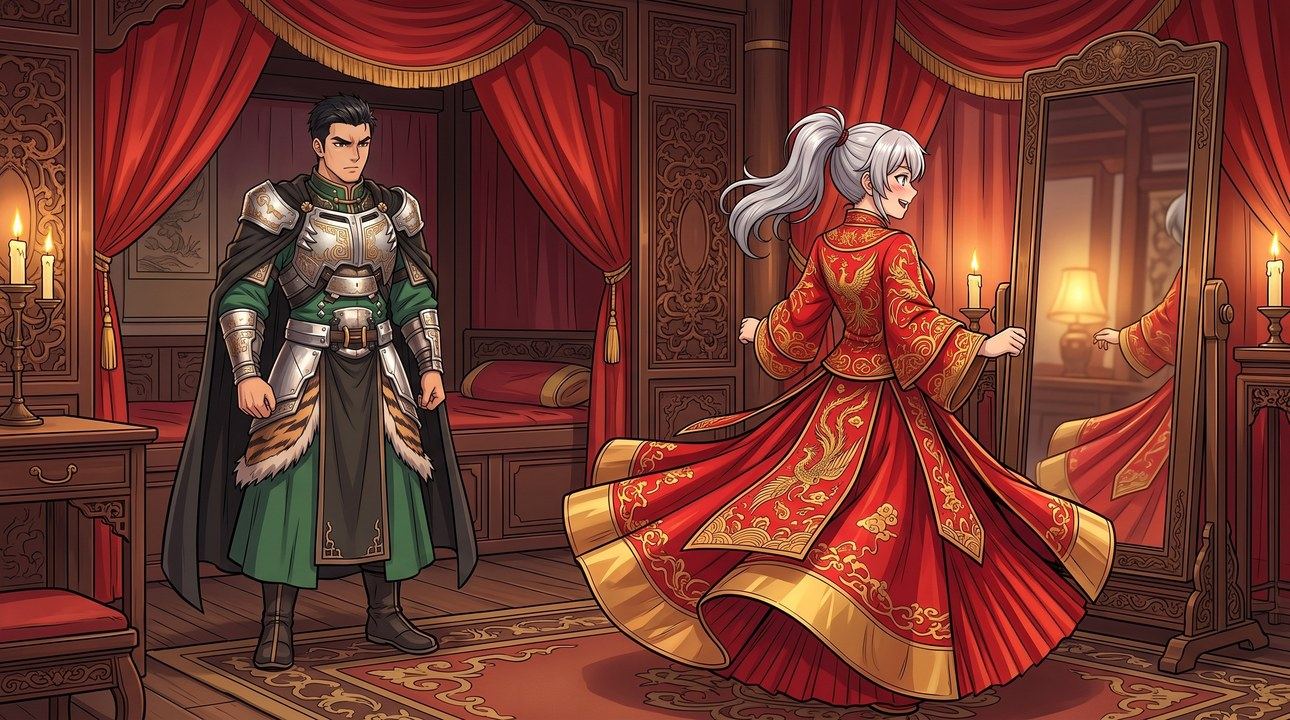
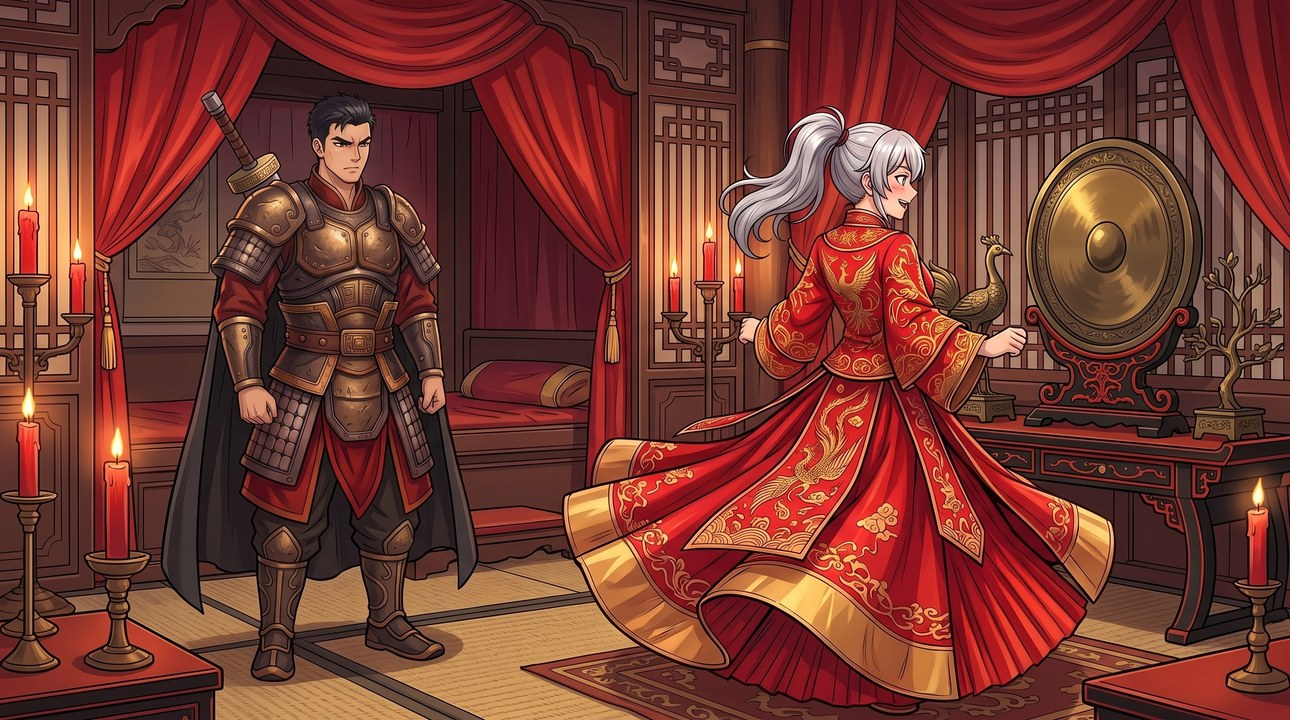
Art: c5_dress redrawn with the new lord armor and a Han-era room; flush art docs
Claude-Session: https://claude.ai/code/session_018QaSx8CT1BCqyCRYWf7FPT

diff --git a/pics/ART-PROMPTS.md b/pics/ART-PROMPTS.md
@@ -13,23 +13,6 @@
 
 - `title` — 标题画面：主角换了新形象（古铜鎏金甲、朱红内衬、纯黑披风，肩扛大刀），参考 lord_south_armor
 - `jiujia` — 孙坚旧甲图标：改成古铜鎏金甲
-- `c2_handover` — 主角换了新铠甲（古铜鎏金甲、朱红内衬、纯黑披风，无白毛领、无虎皮）
-- `c2_keep` — 主角换了新铠甲（古铜鎏金甲、朱红内衬、纯黑披风，无白毛领、无虎皮）
-- `c2_triple` — 主角换了新铠甲（古铜鎏金甲、朱红内衬、纯黑披风，无白毛领、无虎皮）
-- `c2_zumao_saved` — 主角换了新铠甲（古铜鎏金甲、朱红内衬、纯黑披风，无白毛领、无虎皮）
-- `c3_raid` — 主角换了新铠甲（古铜鎏金甲、朱红内衬、纯黑披风，无白毛领、无虎皮）
-- `c3_entrust` — 主角换了新铠甲（古铜鎏金甲、朱红内衬、纯黑披风，无白毛领、无虎皮）
-- `c3_warn` — 主角换了新铠甲（古铜鎏金甲、朱红内衬、纯黑披风，无白毛领、无虎皮）
-- `c3_feng` — 主角换了新铠甲（古铜鎏金甲、朱红内衬、纯黑披风，无白毛领、无虎皮）
-- `c3_end` — 主角换了新铠甲（古铜鎏金甲、朱红内衬、纯黑披风，无白毛领、无虎皮）
-- `c4_betroth` — 主角换了新铠甲（古铜鎏金甲、朱红内衬、纯黑披风，无白毛领、无虎皮）
-- `c4_mangshan` — 主角换了新铠甲（古铜鎏金甲、朱红内衬、纯黑披风，无白毛领、无虎皮）
-- `c4_peace` — 主角换了新铠甲（古铜鎏金甲、朱红内衬、纯黑披风，无白毛领、无虎皮）
-- `c4_dongjia` — 主角换了新铠甲（古铜鎏金甲、朱红内衬、纯黑披风，无白毛领、无虎皮）
-- `c4_siege` — 主角换了新铠甲（古铜鎏金甲、朱红内衬、纯黑披风，无白毛领、无虎皮）
-- `c5_enter` — 主角换了新铠甲（古铜鎏金甲、朱红内衬、纯黑披风，无白毛领、无虎皮）
-- `c5_feast` — 主角换了新铠甲（古铜鎏金甲、朱红内衬、纯黑披风，无白毛领、无虎皮）
-- `c5_dress` — 主角换了新铠甲（古铜鎏金甲、朱红内衬、纯黑披风，无白毛领、无虎皮）
 - `c5_diaochan` — 主角换了新铠甲（古铜鎏金甲、朱红内衬、纯黑披风，无白毛领、无虎皮）
 - `c5_yuexia` — 主角换了新铠甲（古铜鎏金甲、朱红内衬、纯黑披风，无白毛领、无虎皮）
 - `c5_chuxi` — 主角换了新铠甲（古铜鎏金甲、朱红内衬、纯黑披风，无白毛领、无虎皮）
@@ -65,69 +48,52 @@
 - `c10_wanglang` — 主角换了新铠甲（古铜鎏金甲、朱红内衬、纯黑披风，无白毛领、无虎皮）
 - `e_jd_yanchuan` — 主角换了新铠甲（古铜鎏金甲、朱红内衬、纯黑披风，无白毛领、无虎皮）
 
-共 52 张，按优先级分档（全部由游戏数据算出，游戏里没用到的不列）：
+共 35 张，按优先级分档（全部由游戏数据算出，游戏里没用到的不列）：
 
 
-**第 3 档 · 主线剧情 CG（50）**
+**第 3 档 · 主线剧情 CG（33）**
 
-1. `c2_zumao_saved` — 第二章 · 讨伐董卓·救祖茂（剧情 CG）
-2. `c2_triple` — 第二章 · 讨伐董卓·威震诸侯（剧情 CG）
-3. `c2_handover` — 第二章 · 讨伐董卓·交人（剧情 CG）
-4. `c2_keep` — 第二章 · 讨伐董卓·藏人（剧情 CG）
-5. `c3_entrust` — 第三章 · 传国玉玺·托玺（剧情 CG）
-6. `c3_warn` — 第三章 · 传国玉玺·劝阻（剧情 CG）
-7. `c3_feng` — 第三章 · 传国玉玺·冯夫人（剧情 CG）
-8. `c3_raid` — 第三章 · 传国玉玺·夜袭（剧情 CG）
-9. `c4_peace` — 第三章 · 传国玉玺·求和（剧情 CG）
-10. `c4_betroth` — 第三章 · 传国玉玺·定亲（剧情 CG）
-11. `c4_mangshan` — 第三章 · 传国玉玺·邙山跑马（剧情 CG）
-12. `c3_end` — 第三章 · 传国玉玺·玉碎（剧情 CG）
-13. `c5_enter` — 第三章 · 传国玉玺·入长安（剧情 CG）
-14. `c5_feast` — 第三章 · 传国玉玺·接风宴（剧情 CG）
-15. `c5_diaochan` — 第三章 · 传国玉玺·貂蝉（剧情 CG）
-16. `c5_yuexia` — 第三章 · 传国玉玺·月下（剧情 CG）
-17. `c5_chuxi` — 第三章 · 传国玉玺·除夕（剧情 CG）
-18. `c5_dress` — 第三章 · 传国玉玺·大婚前夜（剧情 CG）
-19. `c5_wedding` — 第三章 · 传国玉玺·大婚（剧情 CG）
-20. `c5_rescue` — 第三章 · 传国玉玺·格杀勿论（剧情 CG）
-21. `c5_death` — 第三章 · 传国玉玺·董卓之死（剧情 CG）
-22. `c6_yizu` — 第四章 · 挟天子·夷族（剧情 CG）
-23. `c6_warn` — 第四章 · 挟天子·报信（剧情 CG）
-24. `c4_siege` — 第四章 · 挟天子·围府（剧情 CG）
-25. `c6_escape` — 第四章 · 挟天子·北掖门（剧情 CG）
-26. `c4_dongjia` — 第四章 · 挟天子·董家（剧情 CG）
-27. `c6_jiaxu` — 第四章 · 挟天子·绑走贾诩（剧情 CG）
-28. `c6_huihe` — 第四章 · 挟天子·洛阳（剧情 CG）
-29. `c6_jiaxu_join` — 第四章 · 挟天子·洛阳休整（剧情 CG）
-30. `c6_seal` — 第四章 · 挟天子·玉玺（剧情 CG）
-31. `c7_huangzhong` — 第四章 · 挟天子·黄忠（剧情 CG）
-32. `c7_stars` — 第四章 · 挟天子·星夜（剧情 CG）
-33. `c7_feng` — 第四章 · 挟天子·冯夫人（剧情 CG）
-34. `c7_flee` — 第四章 · 挟天子·袁术东逃（剧情 CG）
-35. `c8_jiayan` — 第五章 · 荆襄风云·宛城小聚（剧情 CG）
-36. `c8_shuige` — 第五章 · 荆襄风云·万山水阁（剧情 CG）
-37. `c8_dress` — 第五章 · 荆襄风云·盛装（剧情 CG）
-38. `c8_xiangxiao` — 第五章 · 荆襄风云·香消（剧情 CG）
-39. `c8_grapes` — 第五章 · 荆襄风云·万山水阁（剧情 CG）
-40. `c8_henhai` — 第五章 · 荆襄风云·恨海（剧情 CG）
-41. `c8_zupu` — 第五章 · 荆襄风云·明正典刑（剧情 CG）
-42. `c8_louchuan` — 第五章 · 荆襄风云·月下楼船（剧情 CG）
-43. `c9_granary` — 第六章 · 淮南折帝旗·舒县（剧情 CG）
-44. `c9_luxun` — 第六章 · 淮南折帝旗·陆家旧宅（剧情 CG）
-45. `c9_lusu` — 第六章 · 淮南折帝旗·指囷相赠（剧情 CG）
-46. `c9_liuye` — 第六章 · 淮南折帝旗·庐江士族（剧情 CG）
-47. `c9_bridge` — 第六章 · 淮南折帝旗·浮桥（剧情 CG）
-48. `c10_yeyan` — 第七章 · 江东小霸王·吴郡夜宴（剧情 CG）
-49. `c10_wanglang` — 第七章 · 江东小霸王·辩经（剧情 CG）
-50. `c10_fuchun` — 第七章 · 江东小霸王·富春还乡（剧情 CG）
+1. `c5_diaochan` — 第三章 · 传国玉玺·貂蝉（剧情 CG）
+2. `c5_yuexia` — 第三章 · 传国玉玺·月下（剧情 CG）
+3. `c5_chuxi` — 第三章 · 传国玉玺·除夕（剧情 CG）
+4. `c5_wedding` — 第三章 · 传国玉玺·大婚（剧情 CG）
+5. `c5_rescue` — 第三章 · 传国玉玺·格杀勿论（剧情 CG）
+6. `c5_death` — 第三章 · 传国玉玺·董卓之死（剧情 CG）
+7. `c6_yizu` — 第四章 · 挟天子·夷族（剧情 CG）
+8. `c6_warn` — 第四章 · 挟天子·报信（剧情 CG）
+9. `c6_escape` — 第四章 · 挟天子·北掖门（剧情 CG）
+10. `c6_jiaxu` — 第四章 · 挟天子·绑走贾诩（剧情 CG）
+11. `c6_huihe` — 第四章 · 挟天子·洛阳（剧情 CG）
+12. `c6_jiaxu_join` — 第四章 · 挟天子·洛阳休整（剧情 CG）
+13. `c6_seal` — 第四章 · 挟天子·玉玺（剧情 CG）
+14. `c7_huangzhong` — 第四章 · 挟天子·黄忠（剧情 CG）
+15. `c7_stars` — 第四章 · 挟天子·星夜（剧情 CG）
+16. `c7_feng` — 第四章 · 挟天子·冯夫人（剧情 CG）
+17. `c7_flee` — 第四章 · 挟天子·袁术东逃（剧情 CG）
+18. `c8_jiayan` — 第五章 · 荆襄风云·宛城小聚（剧情 CG）
+19. `c8_shuige` — 第五章 · 荆襄风云·万山水阁（剧情 CG）
+20. `c8_dress` — 第五章 · 荆襄风云·盛装（剧情 CG）
+21. `c8_xiangxiao` — 第五章 · 荆襄风云·香消（剧情 CG）
+22. `c8_grapes` — 第五章 · 荆襄风云·万山水阁（剧情 CG）
+23. `c8_henhai` — 第五章 · 荆襄风云·恨海（剧情 CG）
+24. `c8_zupu` — 第五章 · 荆襄风云·明正典刑（剧情 CG）
+25. `c8_louchuan` — 第五章 · 荆襄风云·月下楼船（剧情 CG）
+26. `c9_granary` — 第六章 · 淮南折帝旗·舒县（剧情 CG）
+27. `c9_luxun` — 第六章 · 淮南折帝旗·陆家旧宅（剧情 CG）
+28. `c9_lusu` — 第六章 · 淮南折帝旗·指囷相赠（剧情 CG）
+29. `c9_liuye` — 第六章 · 淮南折帝旗·庐江士族（剧情 CG）
+30. `c9_bridge` — 第六章 · 淮南折帝旗·浮桥（剧情 CG）
+31. `c10_yeyan` — 第七章 · 江东小霸王·吴郡夜宴（剧情 CG）
+32. `c10_wanglang` — 第七章 · 江东小霸王·辩经（剧情 CG）
+33. `c10_fuchun` — 第七章 · 江东小霸王·富春还乡（剧情 CG）
 
 **第 5 档 · 宝物图标（1）**
 
-51. `jiujia` — 孙坚旧甲（宝物图标）（宝物）
+34. `jiujia` — 孙坚旧甲（宝物图标）（宝物）
 
 **第 7 档 · 奇遇插图（1）**
 
-52. `e_jd_yanchuan` — 奇遇「严家盐船」（剧情 CG）
+35. `e_jd_yanchuan` — 奇遇「严家盐船」（剧情 CG）
 
 交图规则：
 
@@ -155,16 +121,6 @@
 构图：横版 16:9，1920x1080，主要人物位于画面上部三分之二以上。画面中重点人物最多四位；无名的背景人物（士兵、人群）不限。
 画风：复古日系战术动漫 RPG 卡牌插画，参考《兰斯10》画风，赛璐珞上色，墨线干净利落，色彩浓郁鲜艳，视觉小说事件 CG，表情生动，暖色电影感光线；不要文字、不要 UI。
 （主角出场时——主角：年轻男子，黑色短发（现代发型，在汉代很扎眼），穿孙坚留下的古铜鎏金旧甲（古铜色札甲、金边勾勒，胸甲与肩甲有云纹浮雕，鳞片纹甲裙与护腿，带划痕与旧锈），内衬朱红战袍，披纯黑色披风（无毛边），腰束带玉扣的皮带，肩扛孙坚的古锭刀（巨大的宽刃厚背砍刀，刀身像一整块带锈斑的铁板，刀背平直、刀尖斜削上翘，没有刀鞘；短柄缠棕色皮绳，圆形金色回纹护手，柄尾圆金属头；整个画面只有这一把刀，不要背带背刀、不要另一把剑）。）
-```
-
-### `c4_mangshan`
-
-```
-横版剧情事件插画：洛阳城北邙山黎明，脚下雾气弥漫：成年董白（银白高马尾、紫色毛边骑马短皮甲）骑在栗色马上，飞快亲了主角一下后策马狂奔下山，耳根通红回头望；主角骑在马上面带惊愕地轻摸脸颊；晨曦中远方灰蒙蒙的洛阳城。
-构图：横版 16:9，1920x1080，主要人物位于画面上部三分之二以上。画面中重点人物最多四位；无名的背景人物（士兵、人群）不限。
-画风：复古日系战术动漫 RPG 卡牌插画，参考《兰斯10》画风，赛璐珞上色，墨线干净利落，色彩浓郁鲜艳，视觉小说事件 CG，表情生动，暖色电影感光线；不要文字、不要 UI。
-（主角出场时——主角：年轻男子，黑色短发（现代发型，在汉代很扎眼），穿孙坚留下的古铜鎏金旧甲（古铜色札甲、金边勾勒，胸甲与肩甲有云纹浮雕，鳞片纹甲裙与护腿，带划痕与旧锈），内衬朱红战袍，披纯黑色披风（无毛边），腰束带玉扣的皮带，肩扛孙坚的古锭刀（巨大的宽刃厚背砍刀，刀身像一整块带锈斑的铁板，刀背平直、刀尖斜削上翘，没有刀鞘；短柄缠棕色皮绳，圆形金色回纹护手，柄尾圆金属头；整个画面只有这一把刀，不要背带背刀、不要另一把剑）。）
-（董白：成年女将，银白色长发高马尾，紫色毛边皮甲，双持两柄巨大的青铜锤（她已交付的立绘和 CG 都是这个样子）。）
 ```
 
 ### `c5_chuxi`
@@ -200,25 +156,6 @@
 
 ```
 横版剧情事件插画：长安深夜灯影轩窗：身裹黑色斗篷的成年貂蝉面色苍白却带着浅笑，就着摇曳烛光自窗外探身向主角低语预警；邻近窗户前，成年董白正气呼呼地哐当一声合上木窗板。
-构图：横版 16:9，1920x1080，主要人物位于画面上部三分之二以上。画面中重点人物最多四位；无名的背景人物（士兵、人群）不限。
-画风：复古日系战术动漫 RPG 卡牌插画，参考《兰斯10》画风，赛璐珞上色，墨线干净利落，色彩浓郁鲜艳，视觉小说事件 CG，表情生动，暖色电影感光线；不要文字、不要 UI。
-（主角出场时——主角：年轻男子，黑色短发（现代发型，在汉代很扎眼），穿孙坚留下的古铜鎏金旧甲（古铜色札甲、金边勾勒，胸甲与肩甲有云纹浮雕，鳞片纹甲裙与护腿，带划痕与旧锈），内衬朱红战袍，披纯黑色披风（无毛边），腰束带玉扣的皮带，肩扛孙坚的古锭刀（巨大的宽刃厚背砍刀，刀身像一整块带锈斑的铁板，刀背平直、刀尖斜削上翘，没有刀鞘；短柄缠棕色皮绳，圆形金色回纹护手，柄尾圆金属头；整个画面只有这一把刀，不要背带背刀、不要另一把剑）。）
-（董白：成年女将，银白色长发高马尾，紫色毛边皮甲，双持两柄巨大的青铜锤（她已交付的立绘和 CG 都是这个样子）。）
-```
-
-### `c4_siege`
-
-```
-横版剧情事件插画：黎明前火把通明的长安蔡府门前：老儒蔡邕泰然自若、毫无反抗地被甲士押走，驻足回头；白衣蔡文姬含泪伸手欲追，被主角紧紧拉住。
-构图：横版 16:9，1920x1080，主要人物位于画面上部三分之二以上。画面中重点人物最多四位；无名的背景人物（士兵、人群）不限。
-画风：复古日系战术动漫 RPG 卡牌插画，参考《兰斯10》画风，赛璐珞上色，墨线干净利落，色彩浓郁鲜艳，视觉小说事件 CG，表情生动，暖色电影感光线；不要文字、不要 UI。
-（主角出场时——主角：年轻男子，黑色短发（现代发型，在汉代很扎眼），穿孙坚留下的古铜鎏金旧甲（古铜色札甲、金边勾勒，胸甲与肩甲有云纹浮雕，鳞片纹甲裙与护腿，带划痕与旧锈），内衬朱红战袍，披纯黑色披风（无毛边），腰束带玉扣的皮带，肩扛孙坚的古锭刀（巨大的宽刃厚背砍刀，刀身像一整块带锈斑的铁板，刀背平直、刀尖斜削上翘，没有刀鞘；短柄缠棕色皮绳，圆形金色回纹护手，柄尾圆金属头；整个画面只有这一把刀，不要背带背刀、不要另一把剑）。）
-```
-
-### `c4_dongjia`
-
-```
-横版剧情事件插画：黎明荒野废弃的山神破庙：残破庙门被一脚踹开，成年董白手提双铜锤英姿飒爽立在门口，身后是一众白发西凉老兵的剪影；主角从稻草堆里惊讶抬头。
 构图：横版 16:9，1920x1080，主要人物位于画面上部三分之二以上。画面中重点人物最多四位；无名的背景人物（士兵、人群）不限。
 画风：复古日系战术动漫 RPG 卡牌插画，参考《兰斯10》画风，赛璐珞上色，墨线干净利落，色彩浓郁鲜艳，视觉小说事件 CG，表情生动，暖色电影感光线；不要文字、不要 UI。
 （主角出场时——主角：年轻男子，黑色短发（现代发型，在汉代很扎眼），穿孙坚留下的古铜鎏金旧甲（古铜色札甲、金边勾勒，胸甲与肩甲有云纹浮雕，鳞片纹甲裙与护腿，带划痕与旧锈），内衬朱红战袍，披纯黑色披风（无毛边），腰束带玉扣的皮带，肩扛孙坚的古锭刀（巨大的宽刃厚背砍刀，刀身像一整块带锈斑的铁板，刀背平直、刀尖斜削上翘，没有刀鞘；短柄缠棕色皮绳，圆形金色回纹护手，柄尾圆金属头；整个画面只有这一把刀，不要背带背刀、不要另一把剑）。）
@@ -371,49 +308,10 @@
 （主角出场时——主角：年轻男子，黑色短发（现代发型，在汉代很扎眼），穿孙坚留下的古铜鎏金旧甲（古铜色札甲、金边勾勒，胸甲与肩甲有云纹浮雕，鳞片纹甲裙与护腿，带划痕与旧锈），内衬朱红战袍，披纯黑色披风（无毛边），腰束带玉扣的皮带，肩扛孙坚的古锭刀（巨大的宽刃厚背砍刀，刀身像一整块带锈斑的铁板，刀背平直、刀尖斜削上翘，没有刀鞘；短柄缠棕色皮绳，圆形金色回纹护手，柄尾圆金属头；整个画面只有这一把刀，不要背带背刀、不要另一把剑）。）
 ```
 
-### `c5_feast`
-
-```
-横版剧情事件插画：接风宴：董卓给董白剥虾，董白边吃边笑，董卓拿袖子擦眼睛；身后一排西凉将站起来盯着主角，吕布在廊下一言不发。
-构图：横版 16:9，1920x1080，主要人物位于画面上部三分之二以上。画面中重点人物最多四位；无名的背景人物（士兵、人群）不限。
-画风：复古日系战术动漫 RPG 卡牌插画，参考《兰斯10》画风，赛璐珞上色，墨线干净利落，色彩浓郁鲜艳，视觉小说事件 CG，表情生动，暖色电影感光线；不要文字、不要 UI。
-（主角出场时——主角：年轻男子，黑色短发（现代发型，在汉代很扎眼），穿孙坚留下的古铜鎏金旧甲（古铜色札甲、金边勾勒，胸甲与肩甲有云纹浮雕，鳞片纹甲裙与护腿，带划痕与旧锈），内衬朱红战袍，披纯黑色披风（无毛边），腰束带玉扣的皮带，肩扛孙坚的古锭刀（巨大的宽刃厚背砍刀，刀身像一整块带锈斑的铁板，刀背平直、刀尖斜削上翘，没有刀鞘；短柄缠棕色皮绳，圆形金色回纹护手，柄尾圆金属头；整个画面只有这一把刀，不要背带背刀、不要另一把剑）。）
-（董白：成年女将，银白色长发高马尾，紫色毛边皮甲，双持两柄巨大的青铜锤（她已交付的立绘和 CG 都是这个样子）。）
-```
-
 ### `c5_rescue`
 
 ```
 横版剧情事件插画：吕布来援：长街上飞熊军弓弦拉满对着力竭的主角，他把穿嫁衣的董白护在身后；街尽头吕布骑赤兔破阵而来、戟指董卓（「诛此贼！」），身后上千骑兵，貂蝉（衣裙撕破、手上带血）骑马跟在他身后。
-构图：横版 16:9，1920x1080，主要人物位于画面上部三分之二以上。画面中重点人物最多四位；无名的背景人物（士兵、人群）不限。
-画风：复古日系战术动漫 RPG 卡牌插画，参考《兰斯10》画风，赛璐珞上色，墨线干净利落，色彩浓郁鲜艳，视觉小说事件 CG，表情生动，暖色电影感光线；不要文字、不要 UI。
-（主角出场时——主角：年轻男子，黑色短发（现代发型，在汉代很扎眼），穿孙坚留下的古铜鎏金旧甲（古铜色札甲、金边勾勒，胸甲与肩甲有云纹浮雕，鳞片纹甲裙与护腿，带划痕与旧锈），内衬朱红战袍，披纯黑色披风（无毛边），腰束带玉扣的皮带，肩扛孙坚的古锭刀（巨大的宽刃厚背砍刀，刀身像一整块带锈斑的铁板，刀背平直、刀尖斜削上翘，没有刀鞘；短柄缠棕色皮绳，圆形金色回纹护手，柄尾圆金属头；整个画面只有这一把刀，不要背带背刀、不要另一把剑）。）
-（董白：成年女将，银白色长发高马尾，紫色毛边皮甲，双持两柄巨大的青铜锤（她已交付的立绘和 CG 都是这个样子）。）
-```
-
-### `c4_peace`
-
-```
-横版剧情事件插画：求和：孙坚大帐里李儒摇扇求和，孙坚沉着脸，周瑜低声进言，主角站出来说话。
-构图：横版 16:9，1920x1080，主要人物位于画面上部三分之二以上。画面中重点人物最多四位；无名的背景人物（士兵、人群）不限。
-画风：复古日系战术动漫 RPG 卡牌插画，参考《兰斯10》画风，赛璐珞上色，墨线干净利落，色彩浓郁鲜艳，视觉小说事件 CG，表情生动，暖色电影感光线；不要文字、不要 UI。
-（主角出场时——主角：年轻男子，黑色短发（现代发型，在汉代很扎眼），穿孙坚留下的古铜鎏金旧甲（古铜色札甲、金边勾勒，胸甲与肩甲有云纹浮雕，鳞片纹甲裙与护腿，带划痕与旧锈），内衬朱红战袍，披纯黑色披风（无毛边），腰束带玉扣的皮带，肩扛孙坚的古锭刀（巨大的宽刃厚背砍刀，刀身像一整块带锈斑的铁板，刀背平直、刀尖斜削上翘，没有刀鞘；短柄缠棕色皮绳，圆形金色回纹护手，柄尾圆金属头；整个画面只有这一把刀，不要背带背刀、不要另一把剑）。）
-```
-
-### `c4_betroth`
-
-```
-横版剧情事件插画：定亲（搞笑）：帐里所有人齐刷刷看向主角，孙策跳起来拒绝，董白别过脸耳朵通红，吴夫人笑着拉她的手。
-构图：横版 16:9，1920x1080，主要人物位于画面上部三分之二以上。画面中重点人物最多四位；无名的背景人物（士兵、人群）不限。
-画风：复古日系战术动漫 RPG 卡牌插画，参考《兰斯10》画风，赛璐珞上色，墨线干净利落，色彩浓郁鲜艳，视觉小说事件 CG，表情生动，暖色电影感光线；不要文字、不要 UI。
-（主角出场时——主角：年轻男子，黑色短发（现代发型，在汉代很扎眼），穿孙坚留下的古铜鎏金旧甲（古铜色札甲、金边勾勒，胸甲与肩甲有云纹浮雕，鳞片纹甲裙与护腿，带划痕与旧锈），内衬朱红战袍，披纯黑色披风（无毛边），腰束带玉扣的皮带，肩扛孙坚的古锭刀（巨大的宽刃厚背砍刀，刀身像一整块带锈斑的铁板，刀背平直、刀尖斜削上翘，没有刀鞘；短柄缠棕色皮绳，圆形金色回纹护手，柄尾圆金属头；整个画面只有这一把刀，不要背带背刀、不要另一把剑）。）
-（董白：成年女将，银白色长发高马尾，紫色毛边皮甲，双持两柄巨大的青铜锤（她已交付的立绘和 CG 都是这个样子）。）
-```
-
-### `c5_enter`
-
-```
-横版剧情事件插画：入长安：长安城门，董卓搂着笑出声的董白，越过她肩膀冷冷打量主角，吕布骑赤兔默默站在后面。
 构图：横版 16:9，1920x1080，主要人物位于画面上部三分之二以上。画面中重点人物最多四位；无名的背景人物（士兵、人群）不限。
 画风：复古日系战术动漫 RPG 卡牌插画，参考《兰斯10》画风，赛璐珞上色，墨线干净利落，色彩浓郁鲜艳，视觉小说事件 CG，表情生动，暖色电影感光线；不要文字、不要 UI。
 （主角出场时——主角：年轻男子，黑色短发（现代发型，在汉代很扎眼），穿孙坚留下的古铜鎏金旧甲（古铜色札甲、金边勾勒，胸甲与肩甲有云纹浮雕，鳞片纹甲裙与护腿，带划痕与旧锈），内衬朱红战袍，披纯黑色披风（无毛边），腰束带玉扣的皮带，肩扛孙坚的古锭刀（巨大的宽刃厚背砍刀，刀身像一整块带锈斑的铁板，刀背平直、刀尖斜削上翘，没有刀鞘；短柄缠棕色皮绳，圆形金色回纹护手，柄尾圆金属头；整个画面只有这一把刀，不要背带背刀、不要另一把剑）。）
@@ -427,16 +325,6 @@
 构图：横版 16:9，1920x1080，主要人物位于画面上部三分之二以上。画面中重点人物最多四位；无名的背景人物（士兵、人群）不限。
 画风：复古日系战术动漫 RPG 卡牌插画，参考《兰斯10》画风，赛璐珞上色，墨线干净利落，色彩浓郁鲜艳，视觉小说事件 CG，表情生动，暖色电影感光线；不要文字、不要 UI。
 （主角出场时——主角：年轻男子，黑色短发（现代发型，在汉代很扎眼），穿孙坚留下的古铜鎏金旧甲（古铜色札甲、金边勾勒，胸甲与肩甲有云纹浮雕，鳞片纹甲裙与护腿，带划痕与旧锈），内衬朱红战袍，披纯黑色披风（无毛边），腰束带玉扣的皮带，肩扛孙坚的古锭刀（巨大的宽刃厚背砍刀，刀身像一整块带锈斑的铁板，刀背平直、刀尖斜削上翘，没有刀鞘；短柄缠棕色皮绳，圆形金色回纹护手，柄尾圆金属头；整个画面只有这一把刀，不要背带背刀、不要另一把剑）。）
-```
-
-### `c5_dress`
-
-```
-横版剧情事件插画：试喜服：董白穿着大红嫁衣在铜镜前开心地转圈，身后主角满脸心事。
-构图：横版 16:9，1920x1080，主要人物位于画面上部三分之二以上。画面中重点人物最多四位；无名的背景人物（士兵、人群）不限。
-画风：复古日系战术动漫 RPG 卡牌插画，参考《兰斯10》画风，赛璐珞上色，墨线干净利落，色彩浓郁鲜艳，视觉小说事件 CG，表情生动，暖色电影感光线；不要文字、不要 UI。
-（主角出场时——主角：年轻男子，黑色短发（现代发型，在汉代很扎眼），穿孙坚留下的古铜鎏金旧甲（古铜色札甲、金边勾勒，胸甲与肩甲有云纹浮雕，鳞片纹甲裙与护腿，带划痕与旧锈），内衬朱红战袍，披纯黑色披风（无毛边），腰束带玉扣的皮带，肩扛孙坚的古锭刀（巨大的宽刃厚背砍刀，刀身像一整块带锈斑的铁板，刀背平直、刀尖斜削上翘，没有刀鞘；短柄缠棕色皮绳，圆形金色回纹护手，柄尾圆金属头；整个画面只有这一把刀，不要背带背刀、不要另一把剑）。）
-（董白：成年女将，银白色长发高马尾，紫色毛边皮甲，双持两柄巨大的青铜锤（她已交付的立绘和 CG 都是这个样子）。）
 ```
 
 ### `c5_wedding`
@@ -457,89 +345,6 @@
 画风：复古日系战术动漫 RPG 卡牌插画，参考《兰斯10》画风，赛璐珞上色，墨线干净利落，色彩浓郁鲜艳，视觉小说事件 CG，表情生动，暖色电影感光线；不要文字、不要 UI。
 （主角出场时——主角：年轻男子，黑色短发（现代发型，在汉代很扎眼），穿孙坚留下的古铜鎏金旧甲（古铜色札甲、金边勾勒，胸甲与肩甲有云纹浮雕，鳞片纹甲裙与护腿，带划痕与旧锈），内衬朱红战袍，披纯黑色披风（无毛边），腰束带玉扣的皮带，肩扛孙坚的古锭刀（巨大的宽刃厚背砍刀，刀身像一整块带锈斑的铁板，刀背平直、刀尖斜削上翘，没有刀鞘；短柄缠棕色皮绳，圆形金色回纹护手，柄尾圆金属头；整个画面只有这一把刀，不要背带背刀、不要另一把剑）。）
 （董白：成年女将，银白色长发高马尾，紫色毛边皮甲，双持两柄巨大的青铜锤（她已交付的立绘和 CG 都是这个样子）。）
-```
-
-### `c3_feng`
-
-```
-横版剧情事件插画：冯夫人：鲁阳廊下，吴夫人缝冬衣、冯夫人绣帕子，两人对着一盘点心笑成一团——冯夫人的眼角却瞟向屋里床下露出一角的锦盒；门口主角和周瑜警惕地看着，周瑜在记账。
-构图：横版 16:9，1920x1080，主要人物位于画面上部三分之二以上。画面中重点人物最多四位；无名的背景人物（士兵、人群）不限。
-画风：复古日系战术动漫 RPG 卡牌插画，参考《兰斯10》画风，赛璐珞上色，墨线干净利落，色彩浓郁鲜艳，视觉小说事件 CG，表情生动，暖色电影感光线；不要文字、不要 UI。
-（主角出场时——主角：年轻男子，黑色短发（现代发型，在汉代很扎眼），穿孙坚留下的古铜鎏金旧甲（古铜色札甲、金边勾勒，胸甲与肩甲有云纹浮雕，鳞片纹甲裙与护腿，带划痕与旧锈），内衬朱红战袍，披纯黑色披风（无毛边），腰束带玉扣的皮带，肩扛孙坚的古锭刀（巨大的宽刃厚背砍刀，刀身像一整块带锈斑的铁板，刀背平直、刀尖斜削上翘，没有刀鞘；短柄缠棕色皮绳，圆形金色回纹护手，柄尾圆金属头；整个画面只有这一把刀，不要背带背刀、不要另一把剑）。）
-```
-
-### `c3_entrust`
-
-```
-横版剧情事件插画：托玺：灯下孙坚把装玉玺的锦盒放进吴夫人手里，主角站在门口，孙坚别扭地不看他。
-构图：横版 16:9，1920x1080，主要人物位于画面上部三分之二以上。画面中重点人物最多四位；无名的背景人物（士兵、人群）不限。
-画风：复古日系战术动漫 RPG 卡牌插画，参考《兰斯10》画风，赛璐珞上色，墨线干净利落，色彩浓郁鲜艳，视觉小说事件 CG，表情生动，暖色电影感光线；不要文字、不要 UI。
-（主角出场时——主角：年轻男子，黑色短发（现代发型，在汉代很扎眼），穿孙坚留下的古铜鎏金旧甲（古铜色札甲、金边勾勒，胸甲与肩甲有云纹浮雕，鳞片纹甲裙与护腿，带划痕与旧锈），内衬朱红战袍，披纯黑色披风（无毛边），腰束带玉扣的皮带，肩扛孙坚的古锭刀（巨大的宽刃厚背砍刀，刀身像一整块带锈斑的铁板，刀背平直、刀尖斜削上翘，没有刀鞘；短柄缠棕色皮绳，圆形金色回纹护手，柄尾圆金属头；整个画面只有这一把刀，不要背带背刀、不要另一把剑）。）
-```
-
-### `c3_warn`
-
-```
-横版剧情事件插画：劝阻：出征前夜主角苦劝，孙坚大笑着用力拍他的肩膀。
-构图：横版 16:9，1920x1080，主要人物位于画面上部三分之二以上。画面中重点人物最多四位；无名的背景人物（士兵、人群）不限。
-画风：复古日系战术动漫 RPG 卡牌插画，参考《兰斯10》画风，赛璐珞上色，墨线干净利落，色彩浓郁鲜艳，视觉小说事件 CG，表情生动，暖色电影感光线；不要文字、不要 UI。
-（主角出场时——主角：年轻男子，黑色短发（现代发型，在汉代很扎眼），穿孙坚留下的古铜鎏金旧甲（古铜色札甲、金边勾勒，胸甲与肩甲有云纹浮雕，鳞片纹甲裙与护腿，带划痕与旧锈），内衬朱红战袍，披纯黑色披风（无毛边），腰束带玉扣的皮带，肩扛孙坚的古锭刀（巨大的宽刃厚背砍刀，刀身像一整块带锈斑的铁板，刀背平直、刀尖斜削上翘，没有刀鞘；短柄缠棕色皮绳，圆形金色回纹护手，柄尾圆金属头；整个画面只有这一把刀，不要背带背刀、不要另一把剑）。）
-```
-
-### `c3_raid`
-
-```
-横版剧情事件插画：夜袭：雨夜火把，「袁」字大旗，陈兰端着长枪堵门，吴夫人抱锦盒躲在主角身后，孙策提枪冲出。
-构图：横版 16:9，1920x1080，主要人物位于画面上部三分之二以上。画面中重点人物最多四位；无名的背景人物（士兵、人群）不限。
-画风：复古日系战术动漫 RPG 卡牌插画，参考《兰斯10》画风，赛璐珞上色，墨线干净利落，色彩浓郁鲜艳，视觉小说事件 CG，表情生动，暖色电影感光线；不要文字、不要 UI。
-（主角出场时——主角：年轻男子，黑色短发（现代发型，在汉代很扎眼），穿孙坚留下的古铜鎏金旧甲（古铜色札甲、金边勾勒，胸甲与肩甲有云纹浮雕，鳞片纹甲裙与护腿，带划痕与旧锈），内衬朱红战袍，披纯黑色披风（无毛边），腰束带玉扣的皮带，肩扛孙坚的古锭刀（巨大的宽刃厚背砍刀，刀身像一整块带锈斑的铁板，刀背平直、刀尖斜削上翘，没有刀鞘；短柄缠棕色皮绳，圆形金色回纹护手，柄尾圆金属头；整个画面只有这一把刀，不要背带背刀、不要另一把剑）。）
-```
-
-### `c3_end`
-
-```
-横版剧情事件插画：玉碎：雨中吴夫人平静地站着面对袁术的金顶车驾，脚边青石上是砸碎的传国玉玺（金补的那一角滚在泥里），袁术惊得跳下车，主角提着孙坚的旧刀挡在她身前，远处孙策周瑜骑马突围。
-构图：横版 16:9，1920x1080，主要人物位于画面上部三分之二以上。画面中重点人物最多四位；无名的背景人物（士兵、人群）不限。
-画风：复古日系战术动漫 RPG 卡牌插画，参考《兰斯10》画风，赛璐珞上色，墨线干净利落，色彩浓郁鲜艳，视觉小说事件 CG，表情生动，暖色电影感光线；不要文字、不要 UI。
-（主角出场时——主角：年轻男子，黑色短发（现代发型，在汉代很扎眼），穿孙坚留下的古铜鎏金旧甲（古铜色札甲、金边勾勒，胸甲与肩甲有云纹浮雕，鳞片纹甲裙与护腿，带划痕与旧锈），内衬朱红战袍，披纯黑色披风（无毛边），腰束带玉扣的皮带，肩扛孙坚的古锭刀（巨大的宽刃厚背砍刀，刀身像一整块带锈斑的铁板，刀背平直、刀尖斜削上翘，没有刀鞘；短柄缠棕色皮绳，圆形金色回纹护手，柄尾圆金属头；整个画面只有这一把刀，不要背带背刀、不要另一把剑）。）
-```
-
-### `c2_zumao_saved`
-
-```
-横版剧情事件插画：救祖茂：主角扔出大刀砸中华雄后脑，孙策补枪，祖茂摘下赤帻递过来。
-构图：横版 16:9，1920x1080，主要人物位于画面上部三分之二以上。画面中重点人物最多四位；无名的背景人物（士兵、人群）不限。
-画风：复古日系战术动漫 RPG 卡牌插画，参考《兰斯10》画风，赛璐珞上色，墨线干净利落，色彩浓郁鲜艳，视觉小说事件 CG，表情生动，暖色电影感光线；不要文字、不要 UI。
-（主角出场时——主角：年轻男子，黑色短发（现代发型，在汉代很扎眼），穿孙坚留下的古铜鎏金旧甲（古铜色札甲、金边勾勒，胸甲与肩甲有云纹浮雕，鳞片纹甲裙与护腿，带划痕与旧锈），内衬朱红战袍，披纯黑色披风（无毛边），腰束带玉扣的皮带，肩扛孙坚的古锭刀（巨大的宽刃厚背砍刀，刀身像一整块带锈斑的铁板，刀背平直、刀尖斜削上翘，没有刀鞘；短柄缠棕色皮绳，圆形金色回纹护手，柄尾圆金属头；整个画面只有这一把刀，不要背带背刀、不要另一把剑）。）
-```
-
-### `c2_keep`
-
-```
-横版剧情事件插画：藏人：马车里吴夫人给董白梳头，董白僵着脖子、眼圈发红，主角在帘外偷看。
-构图：横版 16:9，1920x1080，主要人物位于画面上部三分之二以上。画面中重点人物最多四位；无名的背景人物（士兵、人群）不限。
-画风：复古日系战术动漫 RPG 卡牌插画，参考《兰斯10》画风，赛璐珞上色，墨线干净利落，色彩浓郁鲜艳，视觉小说事件 CG，表情生动，暖色电影感光线；不要文字、不要 UI。
-（主角出场时——主角：年轻男子，黑色短发（现代发型，在汉代很扎眼），穿孙坚留下的古铜鎏金旧甲（古铜色札甲、金边勾勒，胸甲与肩甲有云纹浮雕，鳞片纹甲裙与护腿，带划痕与旧锈），内衬朱红战袍，披纯黑色披风（无毛边），腰束带玉扣的皮带，肩扛孙坚的古锭刀（巨大的宽刃厚背砍刀，刀身像一整块带锈斑的铁板，刀背平直、刀尖斜削上翘，没有刀鞘；短柄缠棕色皮绳，圆形金色回纹护手，柄尾圆金属头；整个画面只有这一把刀，不要背带背刀、不要另一把剑）。）
-（董白：成年女将，银白色长发高马尾，紫色毛边皮甲，双持两柄巨大的青铜锤（她已交付的立绘和 CG 都是这个样子）。）
-```
-
-### `c2_handover`
-
-```
-横版剧情事件插画：交人：董白坐在囚车上回头看了一眼，主角独自站在辕门口。
-构图：横版 16:9，1920x1080，主要人物位于画面上部三分之二以上。画面中重点人物最多四位；无名的背景人物（士兵、人群）不限。
-画风：复古日系战术动漫 RPG 卡牌插画，参考《兰斯10》画风，赛璐珞上色，墨线干净利落，色彩浓郁鲜艳，视觉小说事件 CG，表情生动，暖色电影感光线；不要文字、不要 UI。
-（主角出场时——主角：年轻男子，黑色短发（现代发型，在汉代很扎眼），穿孙坚留下的古铜鎏金旧甲（古铜色札甲、金边勾勒，胸甲与肩甲有云纹浮雕，鳞片纹甲裙与护腿，带划痕与旧锈），内衬朱红战袍，披纯黑色披风（无毛边），腰束带玉扣的皮带，肩扛孙坚的古锭刀（巨大的宽刃厚背砍刀，刀身像一整块带锈斑的铁板，刀背平直、刀尖斜削上翘，没有刀鞘；短柄缠棕色皮绳，圆形金色回纹护手，柄尾圆金属头；整个画面只有这一把刀，不要背带背刀、不要另一把剑）。）
-（董白：成年女将，银白色长发高马尾，紫色毛边皮甲，双持两柄巨大的青铜锤（她已交付的立绘和 CG 都是这个样子）。）
-```
-
-### `c2_triple`
-
-```
-横版剧情事件插画：威震诸侯：诸侯宴上众人围着主角敬酒，袁绍让座，孙坚拍主角肩膀。
-构图：横版 16:9，1920x1080，主要人物位于画面上部三分之二以上。画面中重点人物最多四位；无名的背景人物（士兵、人群）不限。
-画风：复古日系战术动漫 RPG 卡牌插画，参考《兰斯10》画风，赛璐珞上色，墨线干净利落，色彩浓郁鲜艳，视觉小说事件 CG，表情生动，暖色电影感光线；不要文字、不要 UI。
-（主角出场时——主角：年轻男子，黑色短发（现代发型，在汉代很扎眼），穿孙坚留下的古铜鎏金旧甲（古铜色札甲、金边勾勒，胸甲与肩甲有云纹浮雕，鳞片纹甲裙与护腿，带划痕与旧锈），内衬朱红战袍，披纯黑色披风（无毛边），腰束带玉扣的皮带，肩扛孙坚的古锭刀（巨大的宽刃厚背砍刀，刀身像一整块带锈斑的铁板，刀背平直、刀尖斜削上翘，没有刀鞘；短柄缠棕色皮绳，圆形金色回纹护手，柄尾圆金属头；整个画面只有这一把刀，不要背带背刀、不要另一把剑）。）
 ```
 
 ### `c9_granary`

diff --git a/pics/ART-LOG.md b/pics/ART-LOG.md
@@ -520,23 +520,24 @@
 - [x] 2026-10-11 cg `c6_fenghou` ← c6_fenghou_new.jpg · ok
 - [x] 2026-10-11 cg `c5_garden` ← c5_garden_new.jpg · ok
 - [x] 2026-10-11 cg `c6_fenghou` ← c6_fenghou_v6.jpg · ok
-- [ ] 2026-10-11 cg `c1_north` ← c1_north_new.jpg · ok
-- [ ] 2026-10-11 cg `c2_capture` ← c2_capture_v4.jpg · ok
-- [ ] 2026-10-11 cg `c2_counter` ← c2_counter_v2.jpg · ok
-- [ ] 2026-10-11 cg `c2_dongbai_join` ← c2_dongbai_join_v3.jpg · ok
-- [ ] 2026-10-11 cg `c2_handover` ← c2_handover_new.jpg · ok
-- [ ] 2026-10-11 cg `c2_keep` ← c2_keep_new.jpg · ok
-- [ ] 2026-10-11 cg `c2_triple` ← c2_triple_v2.jpg · ok
-- [ ] 2026-10-11 cg `c2_zumao_saved` ← c2_zumao_saved_v2.jpg · ok
-- [ ] 2026-10-11 cg `c3_raid` ← c3_raid_new.jpg · ok
-- [ ] 2026-10-11 cg `c3_entrust` ← c3_entrust_v2.jpg · ok
-- [ ] 2026-10-11 cg `c3_warn` ← c3_warn_v2.jpg · ok
-- [ ] 2026-10-11 cg `c3_feng` ← c3_feng_new.jpg · ok
-- [ ] 2026-10-11 cg `c3_end` ← c3_end_new.jpg · ok
-- [ ] 2026-10-11 cg `c4_betroth` ← c4_betroth_new.jpg · ok
-- [ ] 2026-10-11 cg `c4_mangshan` ← c4_mangshan_new.jpg · ok
-- [ ] 2026-10-11 cg `c4_peace` ← c4_peace_new.jpg · ok
-- [ ] 2026-10-11 cg `c4_dongjia` ← c4_dongjia_new.jpg · ok
-- [ ] 2026-10-11 cg `c4_siege` ← c4_siege_new.jpg · ok
-- [ ] 2026-10-11 cg `c5_enter` ← c5_enter_new.jpg · ok
-- [ ] 2026-10-11 cg `c5_feast` ← c5_feast_new.jpg · ok
+- [x] 2026-10-11 cg `c1_north` ← c1_north_new.jpg · ok
+- [x] 2026-10-11 cg `c2_capture` ← c2_capture_v4.jpg · ok
+- [x] 2026-10-11 cg `c2_counter` ← c2_counter_v2.jpg · ok
+- [x] 2026-10-11 cg `c2_dongbai_join` ← c2_dongbai_join_v3.jpg · ok
+- [x] 2026-10-11 cg `c2_handover` ← c2_handover_new.jpg · ok
+- [x] 2026-10-11 cg `c2_keep` ← c2_keep_new.jpg · ok
+- [x] 2026-10-11 cg `c2_triple` ← c2_triple_v2.jpg · ok
+- [x] 2026-10-11 cg `c2_zumao_saved` ← c2_zumao_saved_v2.jpg · ok
+- [x] 2026-10-11 cg `c3_raid` ← c3_raid_new.jpg · ok
+- [x] 2026-10-11 cg `c3_entrust` ← c3_entrust_v2.jpg · ok
+- [x] 2026-10-11 cg `c3_warn` ← c3_warn_v2.jpg · ok
+- [x] 2026-10-11 cg `c3_feng` ← c3_feng_new.jpg · ok
+- [x] 2026-10-11 cg `c3_end` ← c3_end_new.jpg · ok
+- [x] 2026-10-11 cg `c4_betroth` ← c4_betroth_new.jpg · ok
+- [x] 2026-10-11 cg `c4_mangshan` ← c4_mangshan_new.jpg · ok
+- [x] 2026-10-11 cg `c4_peace` ← c4_peace_new.jpg · ok
+- [x] 2026-10-11 cg `c4_dongjia` ← c4_dongjia_new.jpg · ok
+- [x] 2026-10-11 cg `c4_siege` ← c4_siege_new.jpg · ok
+- [x] 2026-10-11 cg `c5_enter` ← c5_enter_new.jpg · ok
+- [x] 2026-10-11 cg `c5_feast` ← c5_feast_new.jpg · ok
+- [x] 2026-10-11 cg `c5_dress` ← c5_dress_new.jpg · ok
